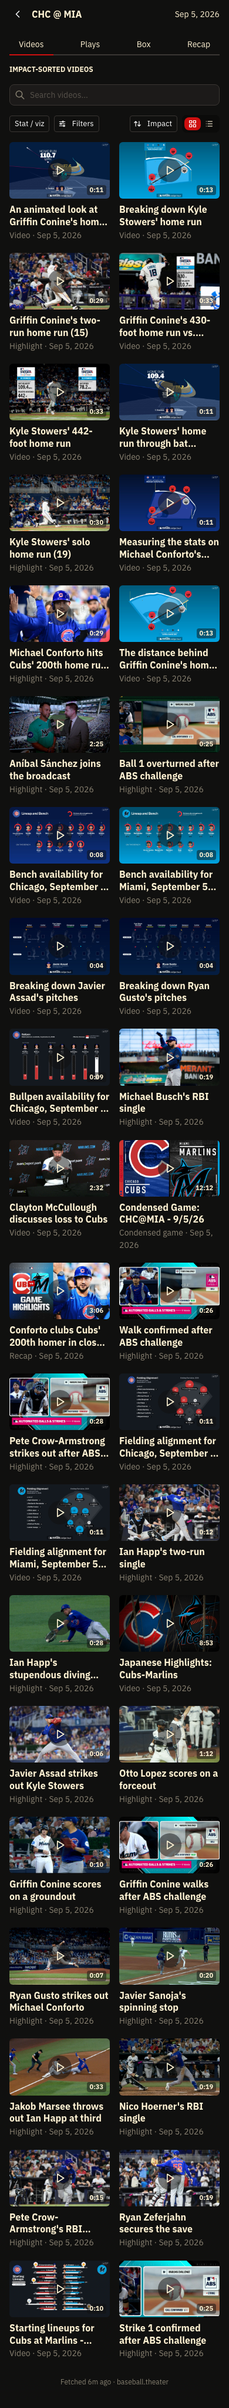
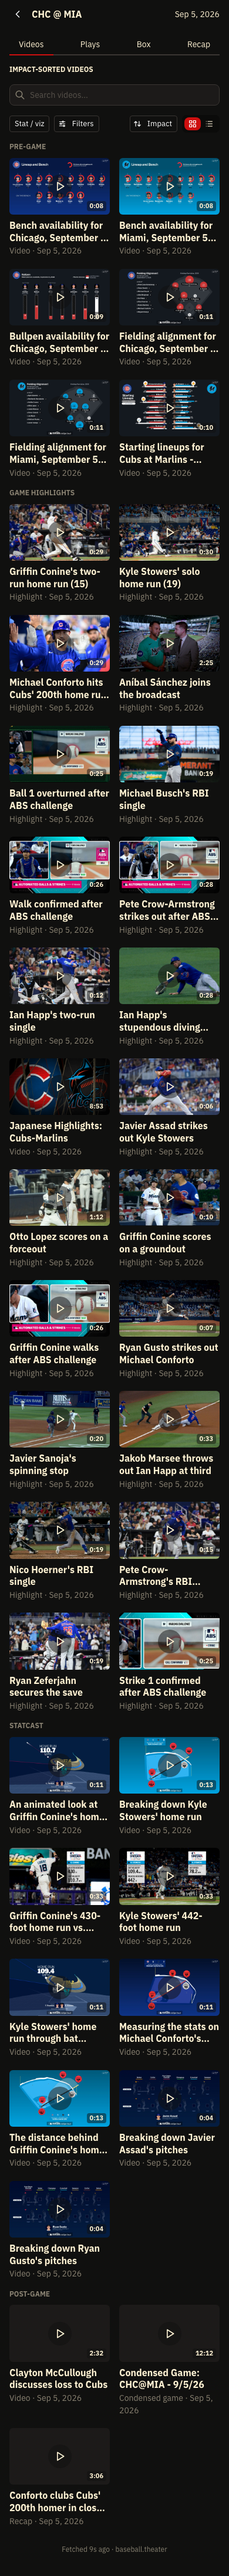
S69 checkpoint (parked for the owner's design match): the Videos room shows its videos in groups (owner, 2026-10-30: "The videos need to be separated into categories, and the categories should be hidden when no videos are in them. More like groups than categories (i.e. a reflection of what is there,
Claude-Session: https://claude.ai/code/session_01FZHj4BTD58DQYzKRj8jroB

diff --git a/web/src/components/videos/VideosRoom.test.tsx b/web/src/components/videos/VideosRoom.test.tsx
@@ -5,7 +5,9 @@
 import { readFileSync } from "node:fs";
 import { dirname, join } from "node:path";
 import { fileURLToPath } from "node:url";
-import { rankHighlightsByImpact, sortHighlights } from "@bt/domain";
+import {
+	groupHighlights, rankHighlightsByImpact, sortHighlights,
+} from "@bt/domain";
 import { MantineProvider } from "@mantine/core";
 import {
 	cleanup, render, screen, within,
@@ -40,6 +42,12 @@ function renderRoom(variant: LayoutVariant = "mobile", g: GamePayload = game(), 
 	return onPlay;
 }
 
+/** Titles in the order the room shows them: by group, each group in the order given. */
+function grouped(highlights: GamePayload["highlights"]): string[]
+{
+	return groupHighlights(highlights).flatMap((g) => g.highlights.map((h) => h.title));
+}
+
 function cardTitles(): string[]
 {
 	return screen.getAllByTestId("video-card").map((c) => c.getAttribute("aria-label")!.replace(/^Play /, ""));
@@ -60,9 +68,11 @@ describe("VideosRoom layout (S69)", () =>
 	] as const)("columns: %s shows a %s-column grid of every video, impact order kept", (variant, cols) =>
 	{
 		renderRoom(variant);
-		const grid = screen.getByTestId("videos-grid");
-		expect(getComputedStyle(grid).getPropertyValue("--sg-cols")).toBe(cols);
-		expect(cardTitles()).toEqual(game().highlights.map((h) => h.title));
+		for (const grid of screen.getAllByTestId("videos-grid"))
+		{
+			expect(getComputedStyle(grid).getPropertyValue("--sg-cols")).toBe(cols);
+		}
+		expect(cardTitles()).toEqual(grouped(game().highlights));
 	});
 
 	it("each card shows the still's duration, the title and a Kind · date meta line", () =>
@@ -83,13 +93,31 @@ describe("VideosRoom layout (S69)", () =>
 			name: "List",
 		}));
 		expect(screen.queryByTestId("videos-grid")).toBeNull();
-		const rows = within(screen.getByTestId("videos-list")).getAllByTestId("video-card");
+		const rows = screen.getAllByTestId("videos-list").flatMap((list) => within(list).getAllByTestId("video-card"));
 		expect(rows).toHaveLength(40);
 		expect(rows.every((r) => r.dataset.layout === "list")).toBe(true);
 		await user.click(screen.getByRole("radio", {
 			name: "Grid",
 		}));
-		expect(screen.getByTestId("videos-grid")).toBeInTheDocument();
+		expect(screen.getAllByTestId("videos-grid").length).toBeGreaterThan(0);
+	});
+
+	it("groups: Pre-game, Game highlights, Statcast, Post-game, each headed; a group with nothing in it is left out", async () =>
+	{
+		const user = userEvent.setup();
+		renderRoom();
+		const groups = () => screen.getAllByTestId("videos-group").map((g) => g.getAttribute("aria-label"));
+		expect(groups()).toEqual(["Pre-game", "Game highlights", "Statcast", "Post-game"]);
+		expect(screen.getByText("Game highlights")).toBeInTheDocument();
+		expect(within(screen.getByRole("region", {
+			name: "Post-game",
+		})).getByRole("button", {
+			name: "Play Condensed Game: CHC@MIA - 9/5/26",
+		})).toBeInTheDocument();
+		await user.type(screen.getByRole("textbox", {
+			name: "Search videos",
+		}), "ABS challenge");
+		expect(groups()).toEqual(["Game highlights"]);
 	});
 });
 
@@ -118,7 +146,7 @@ describe("VideosRoom search and quick filters (S69)", () =>
 	{
 		const user = userEvent.setup();
 		renderRoom();
-		const all = game().highlights.map((h) => h.title);
+		const all = grouped(game().highlights);
 		expect(cardTitles()).toEqual(all);
 		await user.click(screen.getByRole("button", {
 			name: "Featured team",
@@ -127,7 +155,7 @@ describe("VideosRoom search and quick filters (S69)", () =>
 		await user.click(screen.getByRole("menuitem", {
 			name: "MIA",
 		}));
-		const marlins = game().highlights.filter((h) => h.teamIds?.includes(146)).map((h) => h.title);
+		const marlins = grouped(game().highlights.filter((h) => h.teamIds?.includes(146)));
 		expect(cardTitles()).toEqual(marlins);
 		await user.click(screen.getByRole("button", {
 			name: "Stat / viz",
@@ -215,19 +243,19 @@ describe("VideosRoom states and play (S69)", () =>
 		room.mockRestore();
 	});
 
-	it("sort: Impact by default; Newest and Oldest reorder through sortHighlights", async () =>
+	it("sort: Impact by default; Newest and Oldest reorder through sortHighlights, within each group", async () =>
 	{
 		const user = userEvent.setup();
 		renderRoom();
 		const impact = cardTitles();
-		expect(impact).toEqual(game().highlights.map((h) => h.title));
+		expect(impact).toEqual(grouped(game().highlights));
 		await user.click(screen.getByRole("button", {
 			name: "Sort: Impact",
 		}));
 		await user.click(await screen.findByRole("menuitem", {
 			name: "Newest",
 		}));
-		const newest = sortHighlights(game().highlights, "newest").map((h) => h.title);
+		const newest = grouped(sortHighlights(game().highlights, "newest"));
 		expect(cardTitles()).toEqual(newest);
 		expect(newest).not.toEqual(impact);
 		await user.click(screen.getByRole("button", {
@@ -236,7 +264,7 @@ describe("VideosRoom states and play (S69)", () =>
 		await user.click(await screen.findByRole("menuitem", {
 			name: "Oldest",
 		}));
-		expect(cardTitles()).toEqual(sortHighlights(game().highlights, "oldest").map((h) => h.title));
+		expect(cardTitles()).toEqual(grouped(sortHighlights(game().highlights, "oldest")));
 	});
 
 	it("onPlay: choosing a card calls onPlay with that video", async () =>

diff --git a/web/src/components/videos/VideosRoom.tsx b/web/src/components/videos/VideosRoom.tsx
@@ -5,8 +5,10 @@ import {
 	IconArrowsSort, IconChevronDown, IconLayoutGrid, IconList, IconSearch,
 } from "@tabler/icons-react";
 import { useState } from "react";
-import { filterHighlights, sortHighlights } from "@bt/domain";
-import type { HighlightSort } from "@bt/domain";
+import {
+	filterHighlights, groupHighlights, sortHighlights,
+} from "@bt/domain";
+import type { HighlightGroup, HighlightSort } from "@bt/domain";
 import type { GamePayload } from "../../api/game.js";
 import type { LayoutVariant } from "../../layout/variant.js";
 import { ViewState } from "../ViewState.js";
@@ -25,6 +27,14 @@ const SORT_LABELS: Readonly<Record<HighlightSort, string>> = {
 	impact: "Impact",
 	newest: "Newest",
 	oldest: "Oldest",
+};
+
+/** Each group's heading (owner, 2026-10-30: "The groups are: Pre-game, Game highlights, Statcast, Post-Game"). */
+const GROUP_LABELS: Readonly<Record<HighlightGroup, string>> = {
+	pregame: "Pre-game",
+	highlights: "Game highlights",
+	statcast: "Statcast",
+	postgame: "Post-game",
 };
 
 /** The quick filters' values; the drawer edits a copy and applies it whole. */
@@ -134,6 +144,9 @@ function FilterDrawer({
  * `rankHighlightsByImpact` order) and the Grid / List icons (owner, 2026-10-30). The grid
  * has 2 / 3 / 4 columns at mobile / medium / desktop from the host's `variant`; List
  * shows the same `VideoCard`s as rows. Filtering is `filterHighlights` (packages/domain).
+ * The results show in groups — Pre-game, Game highlights, Statcast, Post-game
+ * (`groupHighlights`), each in the chosen sort — and a group with nothing in it is left
+ * out (owner, 2026-10-30).
  * Choosing a video calls `onPlay`; the player is S70's.
  */
 export function VideosRoom({
@@ -160,7 +173,6 @@ export function VideosRoom({
 		query,
 		...filters,
 	}), sort);
-	const cards = videos.map((video) => <VideoCard key={video.id} video={video} layout={layout} onPlay={onPlay} />);
 	const pills = [
 		{
 			key: "team",
@@ -238,15 +250,23 @@ export function VideosRoom({
 				/>
 			</Group>
 			{videos.length === 0 ? <ViewState kind="empty" message="No videos match." /> : null}
-			{videos.length > 0 && layout === "grid" ? (
-				<SimpleGrid cols={COLUMNS[variant]} spacing="md" verticalSpacing="lg" data-testid="videos-grid" style={{
-					alignItems: "start",
-				}}
-				>
-					{cards}
-				</SimpleGrid>
-			) : null}
-			{videos.length > 0 && layout === "list" ? <Stack gap="sm" data-testid="videos-list">{cards}</Stack> : null}
+			{groupHighlights(videos).map(({ group, highlights }) =>
+			{
+				const cards = highlights.map((video) => <VideoCard key={video.id} video={video} layout={layout} onPlay={onPlay} />);
+				return (
+					<Stack key={group} gap="xs" component="section" aria-label={GROUP_LABELS[group]} data-testid="videos-group" data-group={group}>
+						<Text size="xs" fw={700} tt="uppercase" c="var(--bt-muted)">{GROUP_LABELS[group]}</Text>
+						{layout === "grid" ? (
+							<SimpleGrid cols={COLUMNS[variant]} spacing="md" verticalSpacing="lg" data-testid="videos-grid" style={{
+								alignItems: "start",
+							}}
+							>
+								{cards}
+							</SimpleGrid>
+						) : <Stack gap="sm" data-testid="videos-list">{cards}</Stack>}
+					</Stack>
+				);
+			})}
 			{drawer ? <FilterDrawer game={game} opened filters={filters} onApply={(next) =>
 			{
 				setFilters(next);

diff --git a/packages/domain/src/highlights.ts b/packages/domain/src/highlights.ts
@@ -76,6 +76,51 @@ export function sortHighlights(highlights: readonly MediaHighlight[], sort: High
 	}).map(({ highlight }) => highlight);
 }
 
+/** The Videos room's groups, in the order they show (owner, 2026-10-30). */
+export const HIGHLIGHT_GROUPS = ["pregame", "highlights", "statcast", "postgame"] as const;
+export type HighlightGroup = (typeof HIGHLIGHT_GROUPS)[number];
+
+/** Tags MLB puts on clips made after the final out: press conferences and postgame interviews. */
+const POSTGAME_TAGS = new Set(["press-conference", "manager-postgame", "player-postgame", "postgame", "post-game"]);
+/** Tags on the graphics and talk MLB publishes before first pitch: lineups, bullpen and bench, alignments. */
+const PREGAME_TAGS = new Set(["darkroom-starting-lineup", "darkroom-bullpen", "darkroom-fielding-alignment", "manager-pregame", "pregame", "pre-game"]);
+
+/**
+ * Which group a clip falls in (owner, 2026-10-30: "The groups are: Pre-game, Game
+ * highlights, Statcast, Post-Game"), from MLB's keywords, first match wins:
+ * - `postgame`: the recap, the condensed game, press conferences and postgame interviews;
+ * - `pregame`: lineups, bullpen / bench availability and fielding alignments — a
+ *   data-visualization clip MLB did not tag `in-game-data-visualization` is made before
+ *   the game, so it lands here too;
+ * - `statcast`: the remaining stat / viz clips (`classifyHighlight`'s `statViz`: bat
+ *   tracking, pitch breakdowns, home-run distance);
+ * - `highlights`: everything else — play highlights, ABS challenges, in-game interviews.
+ */
+export function highlightGroup(highlight: Pick<MediaHighlight, "kind" | "tags" | "teamIds">): HighlightGroup
+{
+	const tags = highlight.tags ?? [];
+	if (highlight.kind === "recap" || highlight.kind === "condensed" || tags.some((tag) => POSTGAME_TAGS.has(tag))) return "postgame";
+	if (tags.some((tag) => PREGAME_TAGS.has(tag))) return "pregame";
+	if (tags.includes("data-visualization") && !tags.includes("in-game-data-visualization")) return "pregame";
+	if (classifyHighlight(highlight).statViz) return "statcast";
+	return "highlights";
+}
+
+/**
+ * The clips split into their groups, in `HIGHLIGHT_GROUPS` order, each keeping the
+ * order given (the chosen sort). A group with no clips is left out: the groups reflect
+ * what is there, not boxes to fill (owner, 2026-10-30: "More like groups than categories
+ * (i.e. a reflection of what is there, not a set of boxes to put things in)").
+ */
+export function groupHighlights(highlights: readonly MediaHighlight[]): { group: HighlightGroup;
+	highlights: MediaHighlight[]; }[]
+{
+	return HIGHLIGHT_GROUPS.map((group) => ({
+		group,
+		highlights: highlights.filter((highlight) => highlightGroup(highlight) === group),
+	})).filter((entry) => entry.highlights.length > 0);
+}
+
 /**
  * MLB's `HH:MM:SS` duration as the video badge prints it (game-shell frames): `0:29`,
  * `3:06`, `12:12`, and `1:02:05` past an hour. `null` for anything not a duration.

diff --git a/packages/domain/src/highlights.test.ts b/packages/domain/src/highlights.test.ts
@@ -4,7 +4,7 @@ import {
 	describe, expect, it,
 } from "vitest";
 import {
-	classifyHighlight, clipDuration, filterHighlights, sortHighlights,
+	classifyHighlight, clipDuration, filterHighlights, groupHighlights, highlightGroup, sortHighlights,
 } from "./highlights.js";
 import { rankHighlightsByImpact } from "./impact.js";
 import type { MediaHighlight } from "./types.js";
@@ -133,5 +133,45 @@ describe("clipDuration (S69)", () =>
 		expect(clipDuration(null)).toBeNull();
 		expect(clipDuration(undefined)).toBeNull();
 		expect(clipDuration("0:29")).toBeNull();
+	});
+});
+
+describe("groupHighlights (S69)", () =>
+{
+	it("puts each clip in Pre-game, Game highlights, Statcast or Post-game from MLB's keywords", () =>
+	{
+		const group = (title: string) => highlightGroup(VIDEOS.find((h) => h.title.startsWith(title))!);
+		expect(group("Starting lineups")).toBe("pregame");
+		expect(group("Bullpen availability for Chicago")).toBe("pregame");
+		expect(group("Bench availability for Miami")).toBe("pregame");
+		expect(group("Fielding alignment for Miami")).toBe("pregame");
+		expect(group("Griffin Conine's two-run home run")).toBe("highlights");
+		expect(group("Ball 1 overturned")).toBe("highlights");
+		expect(group("Kyle Stowers' home run through bat tracking")).toBe("statcast");
+		expect(group("Breaking down Javier Assad's pitches")).toBe("statcast");
+		expect(group("Kyle Stowers' 442-foot home run")).toBe("statcast");
+		expect(group("Condensed Game")).toBe("postgame");
+		expect(group("Conforto clubs")).toBe("postgame");
+		expect(group("Clayton McCullough discusses")).toBe("postgame");
+		expect(highlightGroup({
+			tags: ["manager-pregame"],
+		})).toBe("pregame");
+		expect(highlightGroup({})).toBe("highlights");
+	});
+
+	it("groups in order, each keeping the order given, and leaves out a group with no clips", () =>
+	{
+		const groups = groupHighlights(VIDEOS);
+		expect(groups.map((g) => g.group)).toEqual(["pregame", "highlights", "statcast", "postgame"]);
+		expect(groups.flatMap((g) => g.highlights)).toHaveLength(VIDEOS.length);
+		for (const { highlights } of groups)
+		{
+			expect(titles(highlights)).toEqual(titles(VIDEOS).filter((title) => highlights.some((h) => h.title === title)));
+		}
+		const onlyHighlights = filterHighlights(VIDEOS, {
+			query: "ABS challenge",
+		});
+		expect(groupHighlights(onlyHighlights).map((g) => g.group)).toEqual(["highlights"]);
+		expect(groupHighlights([])).toEqual([]);
 	});
 });

diff --git a/e2e/design/S69.spec.ts b/e2e/design/S69.spec.ts
@@ -8,7 +8,8 @@
  * Owner-directed changes from the frames (2026-10-30): cards top-aligned; a sort pill
  * (Impact / Newest / Oldest) left of the Grid / List control, which shows icons; the
  * quick filters are rounded rectangles of one height and show as many as fit, then a
- * Filters button opening a bottom drawer — on mobile, Stat / viz then Filters.
+ * Filters button opening a bottom drawer — on mobile, Stat / viz then Filters; the videos
+ * show in Pre-game / Game highlights / Statcast / Post-game groups, empty ones left out.
  *
  * Expected differences, not judged (owner, 2026-10-28: "Judge only the story's own
  * parts"): the frames' sample game (NYY @ BOS, five clips) versus the fixture's 40, so
@@ -25,12 +26,12 @@ import { capture, hideDevControls } from "./helpers.js";
 async function videos(page: Page, list: boolean): Promise<void>
 {
 	await page.goto("/game/823823/videos");
-	await page.getByTestId("videos-grid").waitFor();
+	await page.getByTestId("videos-grid").first().waitFor();
 	if (list)
 	{
 		// The segmented control's radio is hidden under its icon label; click the label.
 		await page.locator("label[for$='-list']").click();
-		await page.getByTestId("videos-list").waitFor();
+		await page.getByTestId("videos-list").first().waitFor();
 	}
 	// Stills load from MLB's image CDN; wait for those on screen so the capture shows them.
 	await page.waitForLoadState("networkidle");

diff --git a/docs/v3/BACKLOG.md b/docs/v3/BACKLOG.md
@@ -4169,7 +4169,7 @@ Reuse `shipping_commit` and `reverify_at` from `scripts/lib/reverify.sh` and the
 
 1. `MediaHighlight` additively gains `kind`, `date`, `teamIds` and `tags`, mapped from `fixtures/raw/content-823823.json` (regeneration test; `pnpm api:breaking` exits 0).
 2. The grid has 2 / 3 / 4 columns at `mobile` / `medium` / `desktop`; List mode shows rows of the same `VideoCard` component (RTL; grep finds one card component).
-3. Search filters by title or blurb through `filterHighlights` in `packages/domain`; the quick filters use `classifyHighlight` there; results are impact-ordered by default, and a sort control left of the Grid / List icons reorders them through `sortHighlights` there (tests). (Amended by the owner, 2026-10-30: *"Add a sort option to the left of the grid/list option. Replace Grid and List with icons."* It said: "…; results stay impact-ordered (tests).")
+3. Search filters by title or blurb through `filterHighlights` in `packages/domain`; the quick filters use `classifyHighlight` there; results are impact-ordered by default, and a sort control left of the Grid / List icons reorders them through `sortHighlights` there (tests); results show in groups — Pre-game, Game highlights, Statcast, Post-game — through `groupHighlights` there, each group in the chosen sort, and a group with no videos is left out (tests). (Amended by the owner, 2026-10-30: *"Add a sort option to the left of the grid/list option. Replace Grid and List with icons."* And: *"The videos need to be separated into categories, and the categories should be hidden when no videos are in them. More like groups than categories (i.e. a reflection of what is there, not a set of boxes to put things in). The groups are: Pre-game, Game highlights, Statcast, Post-Game"* It said: "…; results stay impact-ordered (tests).")
 4. The quick filters sit in one row sized by its own width, never by device: all of them when they fit; otherwise those that fit, in order, then a last `Filters` button that opens a drawer from the bottom listing every filter in a scrolling list with a fixed Apply button (RTL). Filter pills are rounded rectangles of one height. The empty state reads "No videos yet." via `ViewState`. (Amended by the owner, 2026-10-30: *"I like it without the filters button on desktop. That said, the filters under the bar risks hiding options if the number of filters exceeds the width allocated for them, so I think what should make sure that's handled dynamically rather than with modes based on device size. If all the filters can fit in the left side of that area, show them all. If not, show as many as possible with the last item being a Filters button that opens a drawer from the bottom showing all the filters. The drawer should have a fixed apply button and a scrolling list of filters. Also, the chips in the actual build for the filters have mismatched heights. I'd prefer rounded rectangles if possible."* It said: "No `Filter` button renders (grep), and the empty state reads "No videos yet." via `ViewState`.")
 5. A card is a button that calls an `onPlay(highlight)` callback (test); the player is S70.
 6. Files this story adds or edits contain no team-logo `<img>` or `/logos/` reference and do not call `useMediaQuery`, `hiddenFrom` or `visibleFrom` outside `web/src/layout/` (grep).

diff --git a/docs/v3/backlog/stories/S69.md b/docs/v3/backlog/stories/S69.md
@@ -53,7 +53,7 @@ scope_files:
 
 1. `MediaHighlight` additively gains `kind`, `date`, `teamIds` and `tags`, mapped from `fixtures/raw/content-823823.json` (regeneration test; `pnpm api:breaking` exits 0).
 2. The grid has 2 / 3 / 4 columns at `mobile` / `medium` / `desktop`; List mode shows rows of the same `VideoCard` component (RTL; grep finds one card component).
-3. Search filters by title or blurb through `filterHighlights` in `packages/domain`; the quick filters use `classifyHighlight` there; results are impact-ordered by default, and a sort control left of the Grid / List icons reorders them through `sortHighlights` there (tests). (Amended by the owner, 2026-10-30: *"Add a sort option to the left of the grid/list option. Replace Grid and List with icons."* It said: "…; results stay impact-ordered (tests).")
+3. Search filters by title or blurb through `filterHighlights` in `packages/domain`; the quick filters use `classifyHighlight` there; results are impact-ordered by default, and a sort control left of the Grid / List icons reorders them through `sortHighlights` there (tests); results show in groups — Pre-game, Game highlights, Statcast, Post-game — through `groupHighlights` there, each group in the chosen sort, and a group with no videos is left out (tests). (Amended by the owner, 2026-10-30: *"Add a sort option to the left of the grid/list option. Replace Grid and List with icons."* And: *"The videos need to be separated into categories, and the categories should be hidden when no videos are in them. More like groups than categories (i.e. a reflection of what is there, not a set of boxes to put things in). The groups are: Pre-game, Game highlights, Statcast, Post-Game"* It said: "…; results stay impact-ordered (tests).")
 4. The quick filters sit in one row sized by its own width, never by device: all of them when they fit; otherwise those that fit, in order, then a last `Filters` button that opens a drawer from the bottom listing every filter in a scrolling list with a fixed Apply button (RTL). Filter pills are rounded rectangles of one height. The empty state reads "No videos yet." via `ViewState`. (Amended by the owner, 2026-10-30: *"I like it without the filters button on desktop. That said, the filters under the bar risks hiding options if the number of filters exceeds the width allocated for them, so I think what should make sure that's handled dynamically rather than with modes based on device size. If all the filters can fit in the left side of that area, show them all. If not, show as many as possible with the last item being a Filters button that opens a drawer from the bottom showing all the filters. The drawer should have a fixed apply button and a scrolling list of filters. Also, the chips in the actual build for the filters have mismatched heights. I'd prefer rounded rectangles if possible."* It said: "No `Filter` button renders (grep), and the empty state reads "No videos yet." via `ViewState`.")
 5. A card is a button that calls an `onPlay(highlight)` callback (test); the player is S70.
 6. Files this story adds or edits contain no team-logo `<img>` or `/logos/` reference and do not call `useMediaQuery`, `hiddenFrom` or `visibleFrom` outside `web/src/layout/` (grep).
